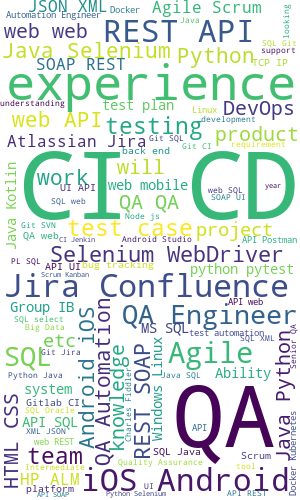
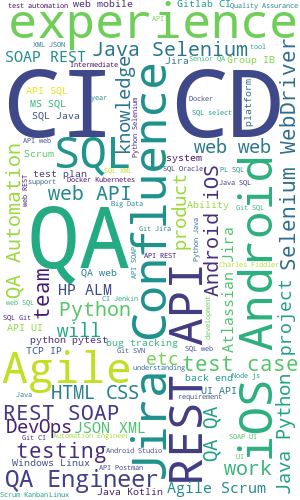
update picture and params.

diff --git a/word_cloud.py b/word_cloud.py
@@ -13,21 +13,21 @@ year = '2020'
 sql = f"""SELECT json FROM vacancies WHERE published_at
               BETWEEN '{year}-01-01T00:00:00+0300' AND '{year}-12-31T11:59:59+0300';"""
 cur.execute(sql)
-vac = cur.fetchall()
+vacancies = cur.fetchall()
 cleaner = re.compile('<.*?>')  # This is RegExp for removing HTML tags
 text = ''
 f = open("word_cloud.txt", "a", encoding="utf-8")
 f.truncate(0)
 
 # Create a list of word and filter some content
-for i in vac:
+for i in vacancies:
     description = json.loads(i[0])['description']
     json_dump = re.sub(cleaner, '', description)  # Remove HTML tags
     json_dump = json_dump.replace('й', 'й')
     json_dump = json_dump.replace('Й', 'Й')
     json_dump = json_dump.replace('&quot;', '')
-    stop_list = ['o o ', 'O O ', 'o oa', 'c c', 'Mail.ru Group', 'Group IB'
-
+    stop_list = [
+        'Mail.ru Group', 'Group IB', 'looking',
     ]
     for word in stop_list:
         json_dump = json_dump.replace(word, '')
@@ -38,14 +38,15 @@ f.close()
 
 f = open("word_cloud.txt", "r", encoding="utf-8")
 text = f.read()
-# mask = np.array(Image.open("C:\\Users\\User\\PycharmProjects\\job_stat\\alpha_channel_1.png"))
+mask = np.array(Image.open("alfa_channel.png"))
 
 # Create the wordcloud object
 wordcloud = WordCloud(background_color="white",
                       max_words=100,
                       # mask=mask,
-                      # contour_width=3, contour_color='steelblue',
-                        min_word_length=2,
+                      contour_width=3, contour_color='steelblue',
+                      min_word_length=2,
+                      # width=800, height=600, margin=0,
                       width=300, height=500, margin=0
                       ).generate(text)
 
